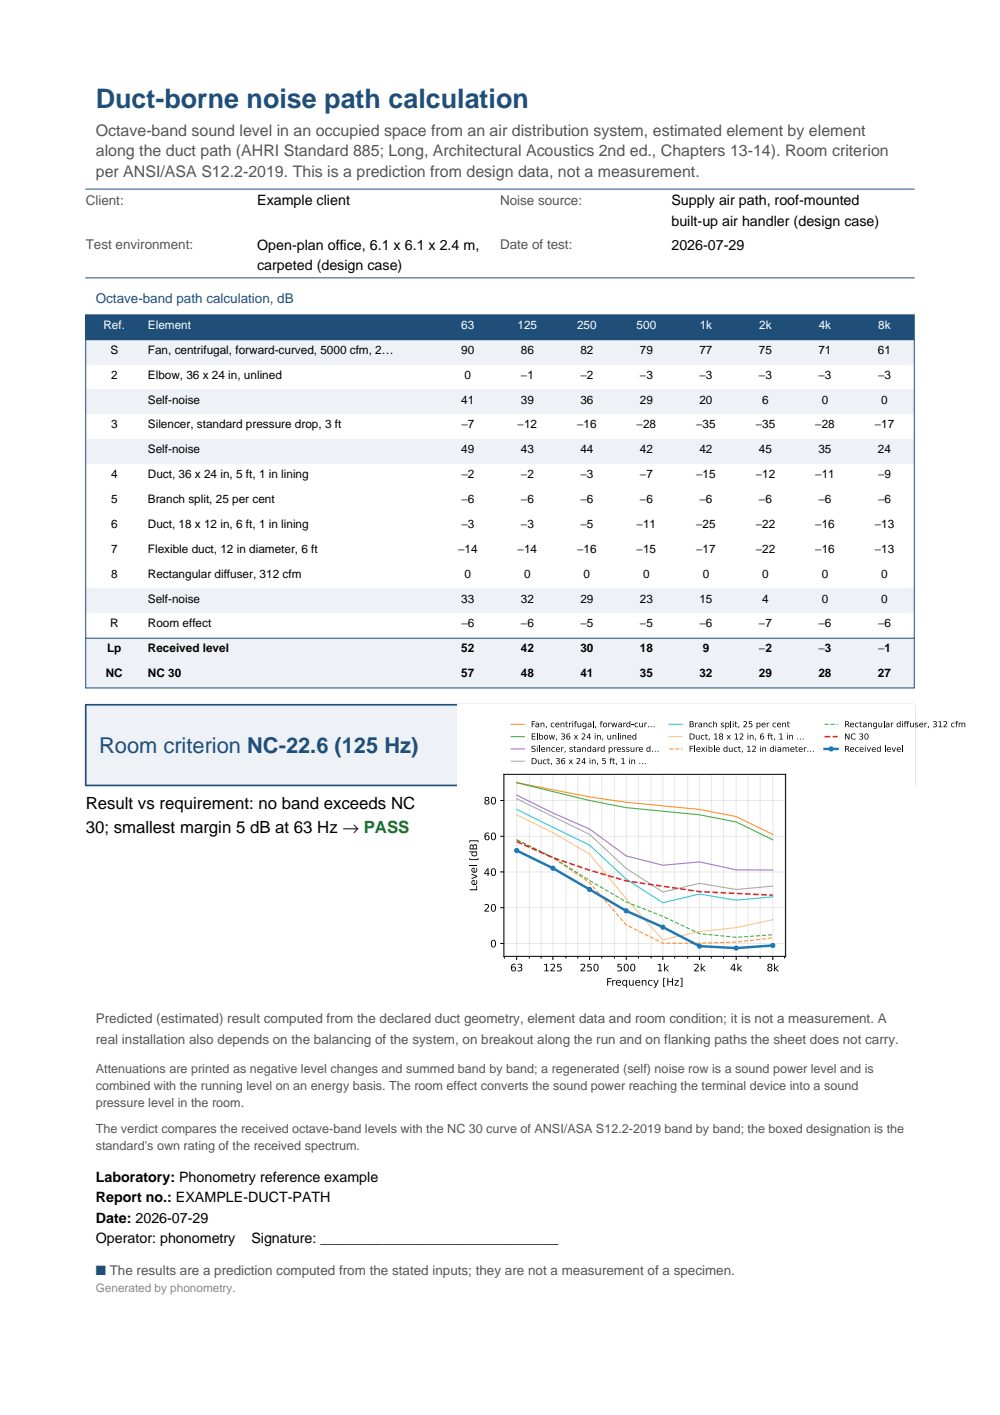
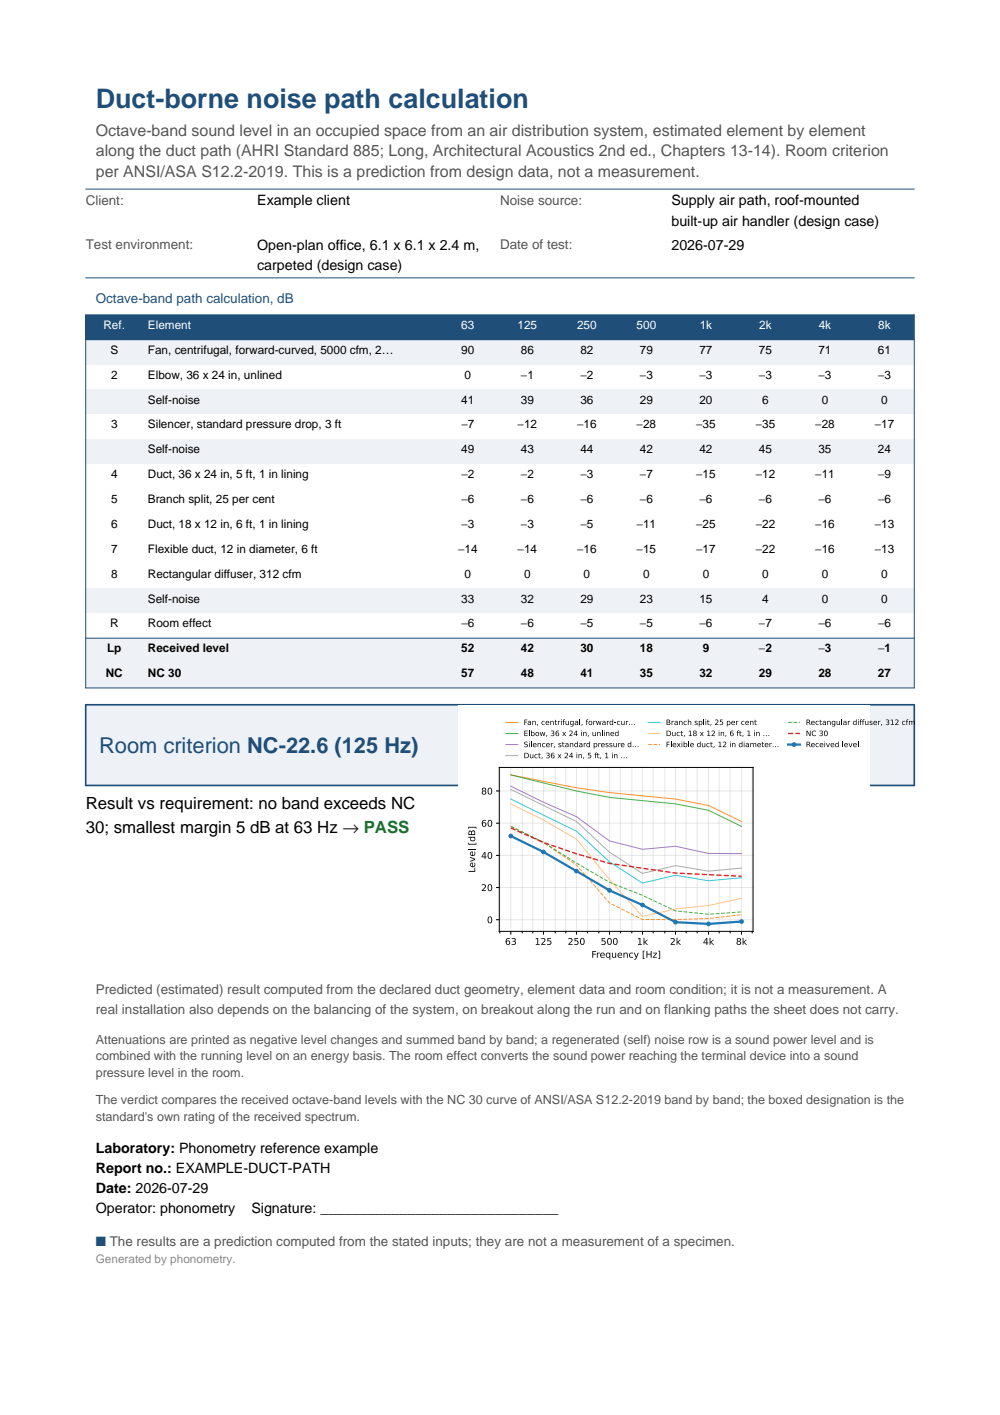
Scale a fiche plot by what it covers, not by what it declares
Two committed sheets printed past the right margin of the page, and I found
it only because a reviewer of the guard I was about to add pointed out that
the guard fired on nothing while two real overflows sat in .github/reports.

    duct_path_example.pdf         ink to 202.8 mm   (margin at 192)
    iec61043_intensity_example    ink to 195.2 mm
    a healthy sheet               ink to 192.3 mm

The cause is one line. The embedded plot is scaled to the column by
target_width / drawing.width, and drawing.width is the box the SVG declares.
A legend anchored outside the axes reaches past that box, so scaling by it
left the overhang at full size: the duct-path drawing asked for 96 mm and
covered 106.6, and its legend crossed the plot's own border on the way out of
the page. Scaling by the rightmost ink puts the far edge where the caller
asked for it.

Measured before changing anything: exactly 2 of the 71 committed fiches draw
wider than they declare, so those two regenerate here and the other
sixty-nine are untouched. Both now end at 192.3 mm, which is where every
other sheet ends.

The architecture test also caught a lazy import I had written at module
level: a rendering leaf may not reach domain code on import, so the
compliance-status check imports its validator inside the function, as this
module already does with reportlab.

Changed region(s): [[0.093, 0.4975, 0.93, 0.9018]]

diff --git a/src/phonometry/_report/_layout.py b/src/phonometry/_report/_layout.py
@@ -27,7 +27,6 @@ from typing import TYPE_CHECKING, Any
 
 import numpy as np
 
-from .._internal.validation import require_choice
 from ._i18n import format_number, t
 
 if TYPE_CHECKING:
@@ -305,7 +304,15 @@ def render_figure_drawing(
     if drawing is None or not drawing.width:
         msg = "Could not convert the report plot to vector graphics."
         raise ValueError(msg)
-    scale = target_width / drawing.width
+    # Scale by what the drawing *covers*, not by the width it declares. A
+    # legend anchored outside the axes reaches past the figure box svglib
+    # reports, and scaling by the declared width let that overhang through at
+    # full size: the duct-path sheet declared 96 mm, drew 106.6, and put its
+    # legend 10.7 mm beyond the right margin of the page, straight through
+    # the plot's own border. Taking the rightmost ink puts the far edge of
+    # the drawing exactly where the caller asked for it.
+    covered = max(float(drawing.width), float(drawing.getBounds()[2]))
+    scale = target_width / covered
     drawing.scale(scale, scale)
     drawing.width = drawing.width * scale
     drawing.height = drawing.height * scale
@@ -729,6 +736,10 @@ def compliance_table(
         mistyped verdict into no verdict at all, and the row a caller meant
         to mark FAIL came out looking like a row nobody had judged.
         """
+        # Imported here, not at module level: a rendering leaf may not reach
+        # domain code on import (tests/test_package_architecture.py).
+        from .._internal.validation import require_choice
+
         require_choice(status, "status", ("pass", "fail", "info"))
         if status == "pass":
             return (

diff --git a/tests/test_report_layout.py b/tests/test_report_layout.py
@@ -115,3 +115,30 @@ def test_the_octave_grouping_is_measured_from_the_band_centres(
     length other than five got one-third-octave rules.
     """
     assert _octave_grouping(centres) == expected
+
+
+# --------------------------------------------------------------------------
+# A drawing wider than the width it declares
+# --------------------------------------------------------------------------
+def test_a_drawing_is_scaled_by_what_it_covers_not_by_what_it_declares() -> None:
+    """A legend anchored outside the axes reaches past the figure box.
+
+    svglib reports the declared box, so scaling by that let the overhang
+    through at full size: the duct-path sheet asked for 96 mm, drew 106.6,
+    and put its legend 10.7 mm beyond the right margin of the page, straight
+    through the plot's own border.
+    """
+    pytest.importorskip("matplotlib")
+    pytest.importorskip("svglib")
+
+    from phonometry._report._layout import render_figure_drawing
+
+    def wide_legend(ax=None, language="en", **kwargs):
+        """A plot whose legend is far wider than its axes."""
+        ax.plot([1.0, 2.0], [1.0, 2.0], label="a legend entry long enough to overhang")
+        ax.legend(loc="lower left", bbox_to_anchor=(0.0, 1.005))
+        return ax
+
+    target = 100.0
+    drawing = render_figure_drawing(wide_legend, target, y_top=None)
+    assert drawing.getBounds()[2] <= target + 0.5

diff --git a/CHANGELOG.md b/CHANGELOG.md
@@ -107,6 +107,15 @@ and this project adheres to [Semantic Versioning](https://semver.org/).
   that went missing. The rebuild now gathers the twins' handles too, in the
   order the plot used, so the printed legend says what the plot said.
 
+- Two committed fiches printed past the right margin of the page. The
+  embedded plot was scaled by the width its SVG declares, and a legend
+  anchored outside the axes reaches past that box, so the overhang went
+  through at full size: the duct-path sheet asked for a 96 mm drawing, drew
+  106.6, and put its legend 10.7 mm beyond the margin, straight through the
+  plot's own border. The IEC 61043 sheet ran 3.2 mm over the same way. The
+  drawing is scaled by what it covers now, and both sheets end where every
+  other one does.
+
 - A fiche is one page, and nothing checked that it came to one. An
   impedance-tube result of forty frequencies rendered three pages, the first
   a title over a blank half and the rest carrying the table, the result and
